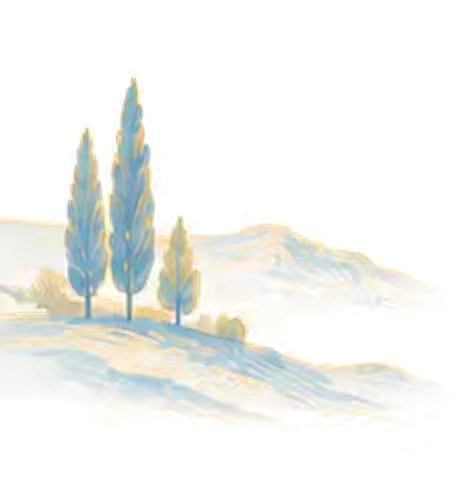
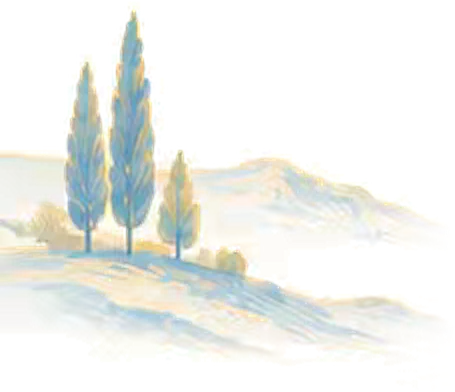
Move accessibility settings to the bottom of the sidebar
The settings expander sat directly under Log out, on top of the sidebar
watercolour. It now has its own container that rests on the bottom edge of
the sidebar, and the watercolour is painted in the free space above it:
scaled to that space, and left out when there is too little room, so it
never sits behind a control. While open, the panel sticks to the bottom
edge and opens upwards instead of off the screen.

The watercolour file is trimmed to its painted area so it can be scaled
to the space it has.

diff --git a/assets/paper_shell.css b/assets/paper_shell.css
@@ -180,10 +180,42 @@ a[data-testid="stSidebarNavLink"]:focus-visible {
   outline-offset: 1px;
 }
 
-/* ---- Sidebar footer: account, save status, accessibility ------------------ */
+/* ---- Sidebar footer: account and save status ------------------------------ */
 .st-key-sidebar_footer {
   border-top: 1px solid var(--paper-line);
   background-color: rgb(254 247 239 / .9);
+}
+
+/* The account block takes whatever height the page list leaves free, so the
+   accessibility settings below it rest on the bottom edge of the sidebar. */
+[data-testid="stSidebarUserContent"] [data-testid="stLayoutWrapper"]:has(> .st-key-sidebar_footer) {
+  flex: 1 0 auto;
+}
+
+/* ---- Accessibility settings: last, on the bottom edge of the sidebar ------ */
+[data-testid="stSidebarUserContent"] [data-testid="stLayoutWrapper"]:has(> .st-key-sidebar_accessibility) {
+  flex: 0 0 auto;
+  padding: .5rem 0 1rem;
+  background-color: var(--paper-bg);
+}
+
+/* While open, the panel sticks to the bottom edge, so it opens upwards over
+   the account block instead of off the screen. Closed, it is simply the last
+   item and never covers the controls above it. The paper-coloured shadow
+   fades whatever it covers along its top edge. */
+[data-testid="stSidebarUserContent"] [data-testid="stLayoutWrapper"]:has(> .st-key-sidebar_accessibility details[open]) {
+  position: sticky;
+  bottom: 0;
+  z-index: 2;
+  box-shadow: 0 -.75rem .75rem -.25rem var(--paper-bg);
+}
+
+/* A very short window cannot hold the open panel; let it scroll with the list. */
+@media (max-height: 520px) {
+  [data-testid="stSidebarUserContent"] [data-testid="stLayoutWrapper"]:has(> .st-key-sidebar_accessibility details[open]) {
+    position: static;
+    box-shadow: none;
+  }
 }
 
 .st-key-account_sidebar [data-testid="stPageLink"] a {
@@ -480,13 +512,26 @@ label[data-baseweb="radio"]:focus-within {
 }
 
 /* ---- Watercolour margins --------------------------------------------------- */
-/* Painted as backgrounds, so they sit behind every control and never take
-   clicks; stMain is the scroll box, so its background stays in place. */
-section[data-testid="stSidebar"] {
+/* Painted as backgrounds, so they never take clicks; stMain is the scroll box,
+   so its background stays in place. */
+
+/* Sidebar: the hills fill the free space between the account block and the
+   accessibility settings, and bleed off the left edge of the sidebar. The
+   picture is drawn whole or not at all: it shrinks with the space it has and
+   disappears below 6rem, so it never sits behind a control. */
+.st-key-sidebar_footer::after {
+  content: "";
+  flex: 1 0 0px;
+  align-self: stretch;
+  min-height: 0;
+  /* Out to the sidebar edge, and down over the gap above the pinned block:
+     the foot of the hills is feathered, so it can sit close to the control. */
+  margin: 0 0 -.75rem -1.25rem;
   background-image: var(--paper-landscape-left, none);
   background-repeat: no-repeat;
   background-position: left bottom;
-  background-size: 228px auto;
+  background-size: auto clamp(0px, calc((100% - 6rem) * 9999), min(100%, 196px));
+  pointer-events: none;
 }
 
 [data-testid="stMain"] {
@@ -496,15 +541,9 @@ section[data-testid="stSidebar"] {
   background-size: 354px auto;
 }
 
-/* Leave the lower hills clear below the account block on tall screens. */
+/* The pinned accessibility block brings its own bottom spacing. */
 [data-testid="stSidebarUserContent"] {
-  padding-bottom: 8.5rem;
-}
-
-@media (max-height: 760px) {
-  [data-testid="stSidebarUserContent"] {
-    padding-bottom: 2rem;
-  }
+  padding-bottom: 0;
 }
 
 /* Home: foliage in the corner of the "Try one question" card. */
@@ -520,13 +559,9 @@ section[data-testid="stSidebar"] {
 }
 
 @media (max-width: 759.98px) {
-  section[data-testid="stSidebar"],
+  .st-key-sidebar_footer::after,
   [data-testid="stMain"] {
     background-image: none;
-  }
-
-  [data-testid="stSidebarUserContent"] {
-    padding-bottom: 1.25rem;
   }
 
   [data-testid="stMain"] .st-key-dashboard_demo_start {

diff --git a/tests/test_paper_shell.py b/tests/test_paper_shell.py
@@ -158,20 +158,70 @@ def test_top_header_row_is_gone_and_breadcrumb_stays():
     assert "Calculus I Demo  /  Home" in [caption.value for caption in app.main.caption]
 
 
-def test_sidebar_footer_holds_account_status_and_accessibility():
+def find_block(node, key: str) -> Block | None:
+    """Return the first keyed container below node whose key is `key`."""
+    for child in node.children.values():
+        if isinstance(child, Block):
+            if child.proto is not None and getattr(child.proto, "id", "").endswith(f"-{key}"):
+                return child
+            found = find_block(child, key)
+            if found is not None:
+                return found
+    return None
+
+
+def test_sidebar_holds_account_and_status_then_accessibility_last():
     app = signed_in_app(APP_PATH).run()
 
     assert not app.exception
-    footer = [block for block in block_ids(app.sidebar) if block.endswith("-sidebar_footer")]
-    assert footer
+    sidebar_keys = ("sidebar_footer", "account_sidebar", "flight_sync_status", "sidebar_accessibility")
     order = [
         block.rsplit("-", 1)[-1] for block in block_ids(app.sidebar)
-        if block.endswith(("-account_sidebar", "-flight_sync_status"))
+        if block.endswith(tuple(f"-{key}" for key in sidebar_keys))
     ]
-    assert order[0] == "account_sidebar"
-    assert app.sidebar.button(key="logout_button").label == "Log out"
+    # Account and save status share the footer; accessibility is its own block after it.
+    assert order == list(sidebar_keys)
+    footer = find_block(app.sidebar, "sidebar_footer")
+    accessibility = find_block(app.sidebar, "sidebar_accessibility")
+    assert footer.button(key="logout_button").label == "Log out"
+    assert not footer.expander
+    assert find_block(footer, "sidebar_accessibility") is None
+    assert [item.label for item in accessibility.expander] == ["Accessibility settings"]
+    assert [item.key for item in accessibility.toggle] == ["a11y_simplify", "_ui_chinese_toggle"]
     assert [item.label for item in app.sidebar.expander] == ["Accessibility settings"]
-    assert [item.key for item in app.sidebar.toggle] == ["a11y_simplify", "_ui_chinese_toggle"]
+
+
+def css_rule(stylesheet: str, selector: str) -> str:
+    """Return the declarations of the first top-level rule with this exact selector."""
+    match = re.search(rf"(?m)^{re.escape(selector)} \{{\n(.*?)\n\}}", stylesheet, re.DOTALL)
+    assert match, f"no rule for {selector}"
+    return match.group(1)
+
+
+def test_accessibility_settings_rest_on_the_bottom_edge_below_the_sidebar_watercolour():
+    shell = (ASSETS / "paper_shell.css").read_text(encoding="utf-8")
+    wrapper = '[data-testid="stSidebarUserContent"] [data-testid="stLayoutWrapper"]'
+
+    # The account block grows into the free height, which pushes the settings down.
+    assert "flex: 1 0 auto;" in css_rule(shell, f"{wrapper}:has(> .st-key-sidebar_footer)")
+    closed = css_rule(shell, f"{wrapper}:has(> .st-key-sidebar_accessibility)")
+    # Opaque, so nothing shows through the open panel; not sticky while closed,
+    # so on a short window it never covers the Log out button.
+    assert "background-color: var(--paper-bg);" in closed
+    assert "position:" not in closed
+    opened = css_rule(shell, f"{wrapper}:has(> .st-key-sidebar_accessibility details[open])")
+    assert "position: sticky;" in opened
+    assert "bottom: 0;" in opened
+
+    # The watercolour is drawn in the free space above the pinned block, not
+    # behind the whole sidebar, so it can never sit under a control.
+    painting = css_rule(shell, ".st-key-sidebar_footer::after")
+    assert "var(--paper-landscape-left" in painting
+    assert "flex: 1 0 0px;" in painting
+    assert "background-position: left bottom;" in painting
+    assert "clamp(0px," in painting
+    assert "var(--paper-landscape-left" not in css_rule(shell, 'section[data-testid="stSidebar"]')
+    assert "padding-bottom: 0;" in css_rule(shell, '[data-testid="stSidebarUserContent"]')
 
 
 def test_injected_styles_include_paper_shell_and_landscape_illustrations():

diff --git a/app.py b/app.py
@@ -117,13 +117,16 @@ if st.session_state.get("_learning_page_path") != navigation.url_path:
         st.session_state.pop(f"scope_initialised_{selected_course.course_id}", None)
     st.session_state["_learning_page_path"] = navigation.url_path
 
-# Account, save status and accessibility settle at the bottom of the sidebar.
-with st.sidebar, st.container(key="sidebar_footer"):
-    render_account_controls(account_page)
-    with st.container(key="flight_sync_status"):
-        render_sidebar_status()
-    with st.expander(tr("Accessibility settings")):
-        render_accessibility_controls()
+# Account and save status follow the page list; accessibility settings stay
+# pinned to the very bottom of the sidebar, below the watercolour.
+with st.sidebar:
+    with st.container(key="sidebar_footer"):
+        render_account_controls(account_page)
+        with st.container(key="flight_sync_status"):
+            render_sidebar_status()
+    with st.container(key="sidebar_accessibility"):
+        with st.expander(tr("Accessibility settings")):
+            render_accessibility_controls()
 
 if selected_course := st.session_state.get("current_course"):
     with st.container(key="flight_course_context"):
